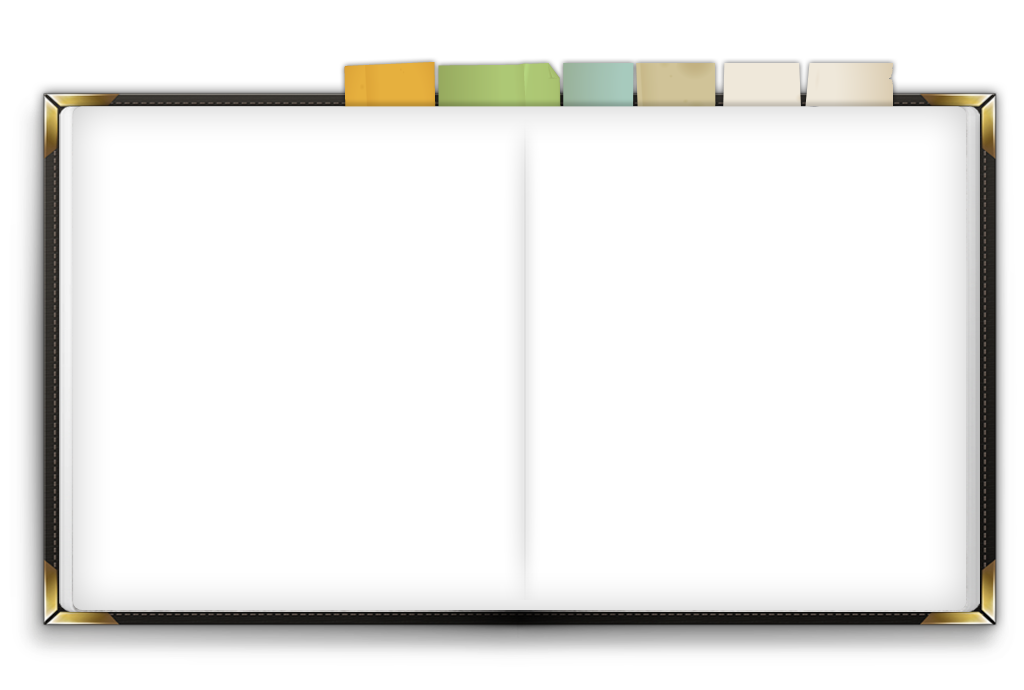
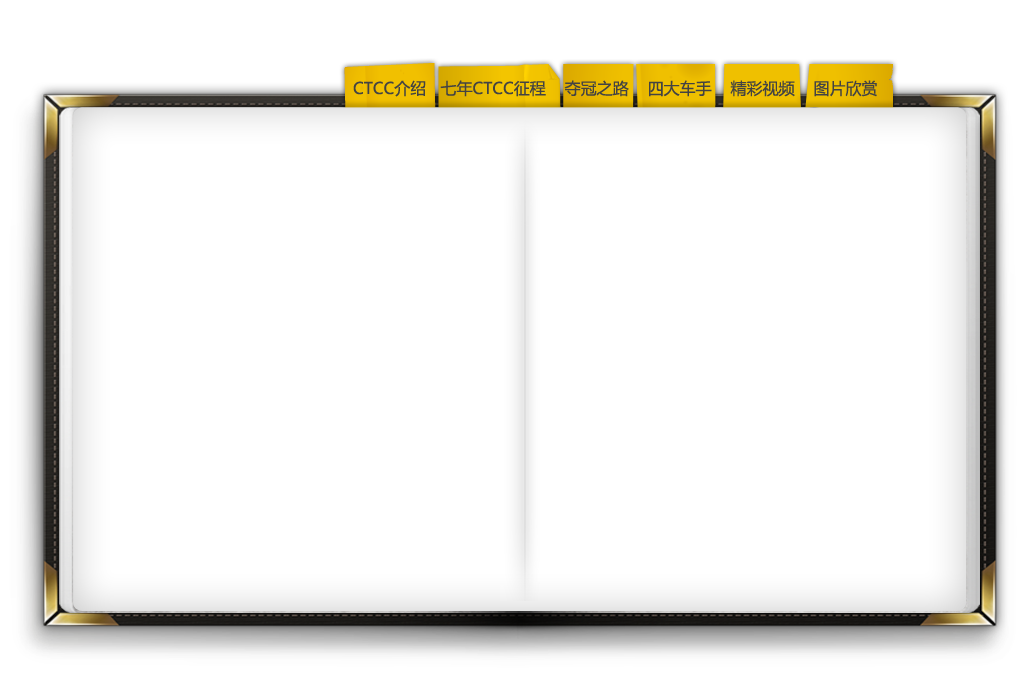
basic gallery

Changed region(s): [[0.0312, 0.0913, 0.9688, 0.1826], [0.0312, 0.8826, 0.9688, 0.913]]

diff --git a/Haima/Controllers/PictureGalleryViewController.m b/Haima/Controllers/PictureGalleryViewController.m
@@ -1,0 +1,81 @@
+//
+//  PictureGalleryViewController.m
+//  Haima
+//
+//  Created by Lei Perry on 4/20/12.
+//  Copyright (c) 2012 __MyCompanyName__. All rights reserved.
+//
+
+#import "PictureGalleryViewController.h"
+#import <QuartzCore/QuartzCore.h>
+#import "UIImage+bitrice.h"
+#import "PictureGalleryDetailViewController.h"
+
+
+#define PIC_WIDTH 145
+#define PIC_HEIGHT 115
+
+@implementation PictureGalleryViewController
+
+- (void)loadView {
+    [super loadView];
+    [self.navigationController setNavigationBarHidden:YES];
+    
+    UIScrollView *scrollView = [[UIScrollView alloc] initWithFrame:self.view.frame];
+    scrollView.autoresizingMask = UIViewAutoresizingFlexibleWidth | UIViewAutoresizingFlexibleHeight;
+    scrollView.showsVerticalScrollIndicator = NO;
+    [self.view addSubview:scrollView];
+    
+    UITapGestureRecognizer *gesture = [[[UITapGestureRecognizer alloc] initWithTarget:self action:@selector(tapOnPicture:)] autorelease];
+    [self.view addGestureRecognizer:gesture];
+    
+    for (int i=0; i<15; i++) {
+        int row = i / 5;
+        int col = i % 5;
+        UIImageView *view = [[UIImageView alloc] initWithFrame:CGRectMake(100+(PIC_WIDTH+20)*col,
+                                                                          20+(PIC_HEIGHT+20)*row,
+                                                                          PIC_WIDTH,
+                                                                          PIC_HEIGHT)];
+        view.tag = i+1;
+        view.image = [[UIImage imageNamed:[NSString stringWithFormat:@"media-%d.JPG", i+1]]
+                      imageByScalingProportionallyToSize:CGSizeMake(PIC_WIDTH, PIC_HEIGHT)];
+        view.layer.borderColor = [UIColor whiteColor].CGColor;
+        view.layer.borderWidth = 5;
+        view.layer.shadowColor = [UIColor blackColor].CGColor;
+        view.layer.shadowOpacity = 0.3f;
+        view.layer.shadowOffset = CGSizeMake(2.0f, 2.0f);
+        view.layer.shadowRadius = 2.0f;
+        view.layer.masksToBounds = NO;
+        [scrollView addSubview:view];
+    }
+
+    [scrollView release];
+}
+
+- (void)viewWillAppear:(BOOL)animated {
+    [self.navigationController setNavigationBarHidden:YES];
+    [super viewWillAppear:animated];
+}
+
+- (void)tapOnPicture:(UITapGestureRecognizer *)gesture {
+    UIView *scrollView = [self.view.subviews objectAtIndex:0];
+    int tapIndex;
+    for (int i=0; i<15; i++) {
+        UIView *image = [scrollView viewWithTag:i+1];
+        CGPoint point = [gesture locationInView:image];
+        if (CGRectContainsPoint(image.bounds, point)) {
+            tapIndex = i;
+            break;
+        }
+    }
+    
+    PictureGalleryDetailViewController *vc = [[PictureGalleryDetailViewController alloc] init];
+    vc.currentIndex = tapIndex;
+    [self.navigationController pushViewController:vc animated:NO];
+}
+
+- (void)dealloc {
+    [super dealloc];
+}
+
+@end

diff --git a/Haima/Controllers/PictureGalleryDetailViewController.m b/Haima/Controllers/PictureGalleryDetailViewController.m
@@ -1,0 +1,66 @@
+//
+//  PictureGalleryDetailViewController.m
+//  Haima
+//
+//  Created by Lei Perry on 4/20/12.
+//  Copyright (c) 2012 __MyCompanyName__. All rights reserved.
+//
+
+#import "PictureGalleryDetailViewController.h"
+#import "UIImage+bitrice.h"
+
+@implementation PictureGalleryDetailViewController
+
+@synthesize currentIndex = _currentIndex;
+
+- (void)loadView {
+    [super loadView];
+    self.view.backgroundColor = [UIColor yellowColor];
+    
+    CGRect rect = CGRectMake(120, 0, 1024-240, 768-198);
+    UIScrollView *scrollView = [[UIScrollView alloc] initWithFrame:rect];
+    scrollView.contentSize = CGSizeMake(rect.size.width*15, rect.size.height);
+    scrollView.showsVerticalScrollIndicator = NO;
+    scrollView.pagingEnabled = YES;
+    [self.view addSubview:scrollView];
+    
+    for (int i=0; i<15; i++) {
+        UIImageView *view = [[UIImageView alloc] initWithFrame:CGRectMake(i*rect.size.width, 0, rect.size.width, rect.size.height)];
+        view.tag = i+1;
+        view.image = [UIImage imageNamed:[NSString stringWithFormat:@"media-%d.JPG", i+1]];
+        view.image = [view.image imageByScalingProportionallyToSize:rect.size];
+        view.contentMode = UIViewContentModeCenter;
+        view.backgroundColor = [UIColor blueColor];
+        [scrollView addSubview:view];
+    }
+    
+    [scrollView release];
+    
+    UIButton *button = [UIButton buttonWithType:UIButtonTypeCustom];
+    button.showsTouchWhenHighlighted = YES;
+    button.frame = CGRectMake(rect.origin.x, rect.origin.y, 44, 44);
+    [button setBackgroundImage:[UIImage imageNamed:@"return-button"] forState:UIControlStateNormal];
+    [button addTarget:self action:@selector(returnAction:) forControlEvents:UIControlEventTouchUpInside];
+    [self.view addSubview:button];
+}
+
+- (void)viewDidLoad {
+    [super viewDidLoad];
+    
+    UIScrollView *scrollView = (UIScrollView *)[self.view.subviews objectAtIndex:0];
+    [scrollView setContentOffset:CGPointMake(_currentIndex*scrollView.frame.size.width, 0) animated:YES];
+}
+
+- (void)returnAction:(UIButton *)button {
+    [self.navigationController popViewControllerAnimated:NO];
+}
+
+- (void)handleTapGesture:(UIGestureRecognizer *)gesture {
+    
+}
+
+- (void)dealloc {
+    [super dealloc];
+}
+
+@end

diff --git a/Haima/Controllers/ChampionViewController.m b/Haima/Controllers/ChampionViewController.m
@@ -11,6 +11,7 @@
 #import "ChampionRouteViewController.h"
 #import "StarDriverViewController.h"
 #import "CtccIntroViewController.h"
+#import "PictureGalleryViewController.h"
 
 #define SELECTED_VIEW_CONTROLLER_TAG 234241
 
@@ -42,8 +43,8 @@
         UIViewController *detailController5 = [[[UIViewController alloc] init] autorelease];
         detailController5.view.backgroundColor = [UIColor yellowColor];
         
-        UIViewController *detailController6 = [[[UIViewController alloc] init] autorelease];
-        detailController6.view.backgroundColor = [UIColor magentaColor];
+        PictureGalleryViewController *vc6Root = [[[PictureGalleryViewController alloc] init] autorelease];
+        UINavigationController *vc6 = [[UINavigationController alloc] initWithRootViewController:vc6Root];
         
         self.viewControllerItems = [NSArray arrayWithObjects:
                                     [NSDictionary dictionaryWithObjectsAndKeys:
@@ -73,7 +74,7 @@
                                      nil],
                                     [NSDictionary dictionaryWithObjectsAndKeys:
                                      @"图片欣赏", @"title",
-                                     detailController6, @"viewController",
+                                     vc6, @"viewController",
                                      NSStringFromCGRect(CGRectMake(808, 67, 90, 40)), @"frame",
                                      nil],
                                     nil];
@@ -86,7 +87,7 @@
             UIButton *button = [UIButton buttonWithType:UIButtonTypeCustom];
             button.tag = tag++;
             button.frame = CGRectFromString([dict objectForKey:@"frame"]);
-            [button setTitle:[dict objectForKey:@"title"] forState:UIControlStateNormal];
+//            [button setTitle:[dict objectForKey:@"title"] forState:UIControlStateNormal];
             [button setTitleColor:[UIColor darkTextColor] forState:UIControlStateNormal];
             [button.titleLabel setFont:[UIFont systemFontOfSize:15]];
             [button addTarget:self action:@selector(tabTapped:) forControlEvents:UIControlEventTouchUpInside];

diff --git a/Haima/Controllers/BrandHistoryViewController.m b/Haima/Controllers/BrandHistoryViewController.m
@@ -144,7 +144,7 @@
     _timeEntryView.image = [UIImage imageNamed:entry.pictureUrl];
     _timeEntryView.text = entry.description;
     _timeEntryView.center = CGPointMake(imageView.center.x-scrollView.contentOffset.x, imageView.center.y);
-    _timeEntryView.transform = CGAffineTransformMakeScale(imageView.frame.size.width/1024, imageView.frame.size.height/690);
+    _timeEntryView.transform = CGAffineTransformMakeScale(imageView.frame.size.width/1024, imageView.frame.size.height/690);   
     [UIView animateWithDuration:.2
                           delay:0
                         options:UIViewAnimationCurveEaseInOut

diff --git a/Haima/Controllers/PictureGalleryDetailViewController.h b/Haima/Controllers/PictureGalleryDetailViewController.h
@@ -1,0 +1,14 @@
+//
+//  PictureGalleryDetailViewController.h
+//  Haima
+//
+//  Created by Lei Perry on 4/20/12.
+//  Copyright (c) 2012 __MyCompanyName__. All rights reserved.
+//
+
+
+@interface PictureGalleryDetailViewController : UIViewController
+
+@property NSUInteger currentIndex;
+
+@end

diff --git a/Haima/Controllers/PictureGalleryViewController.h b/Haima/Controllers/PictureGalleryViewController.h
@@ -1,0 +1,11 @@
+//
+//  PictureGalleryViewController.h
+//  Haima
+//
+//  Created by Lei Perry on 4/20/12.
+//  Copyright (c) 2012 __MyCompanyName__. All rights reserved.
+//
+
+@interface PictureGalleryViewController : UIViewController
+
+@end
